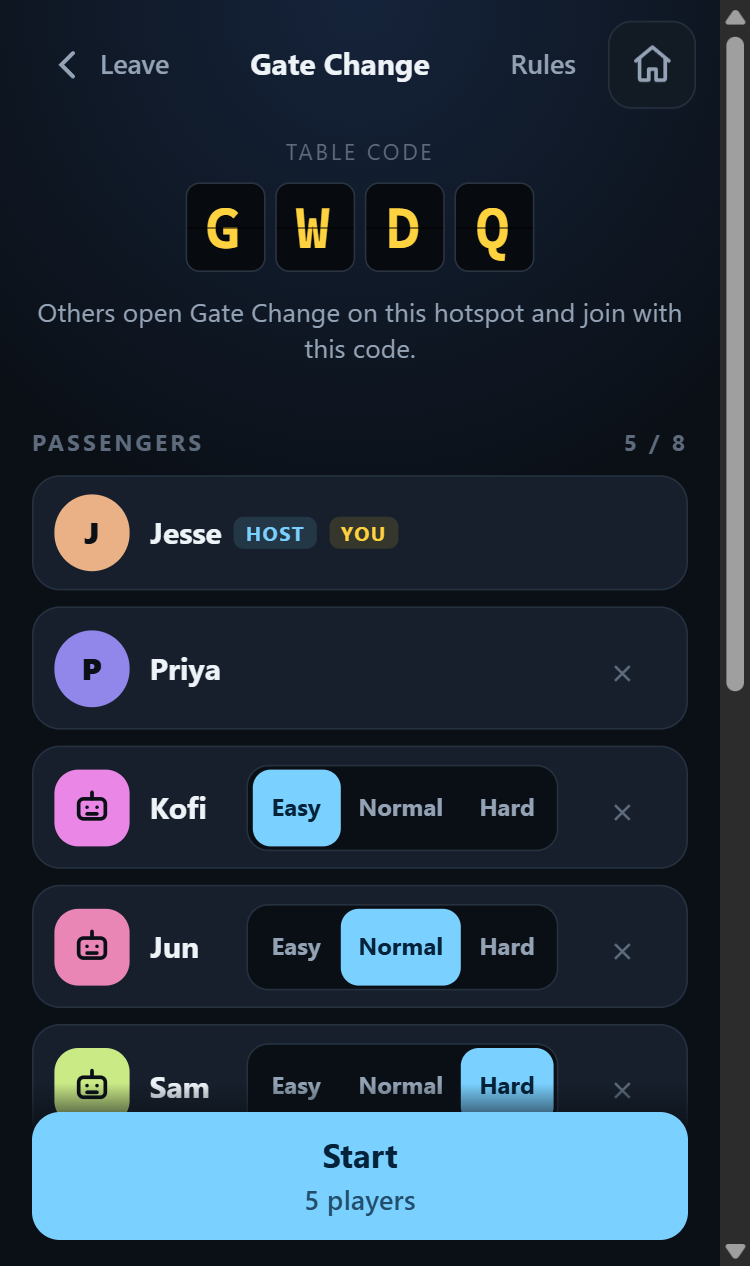
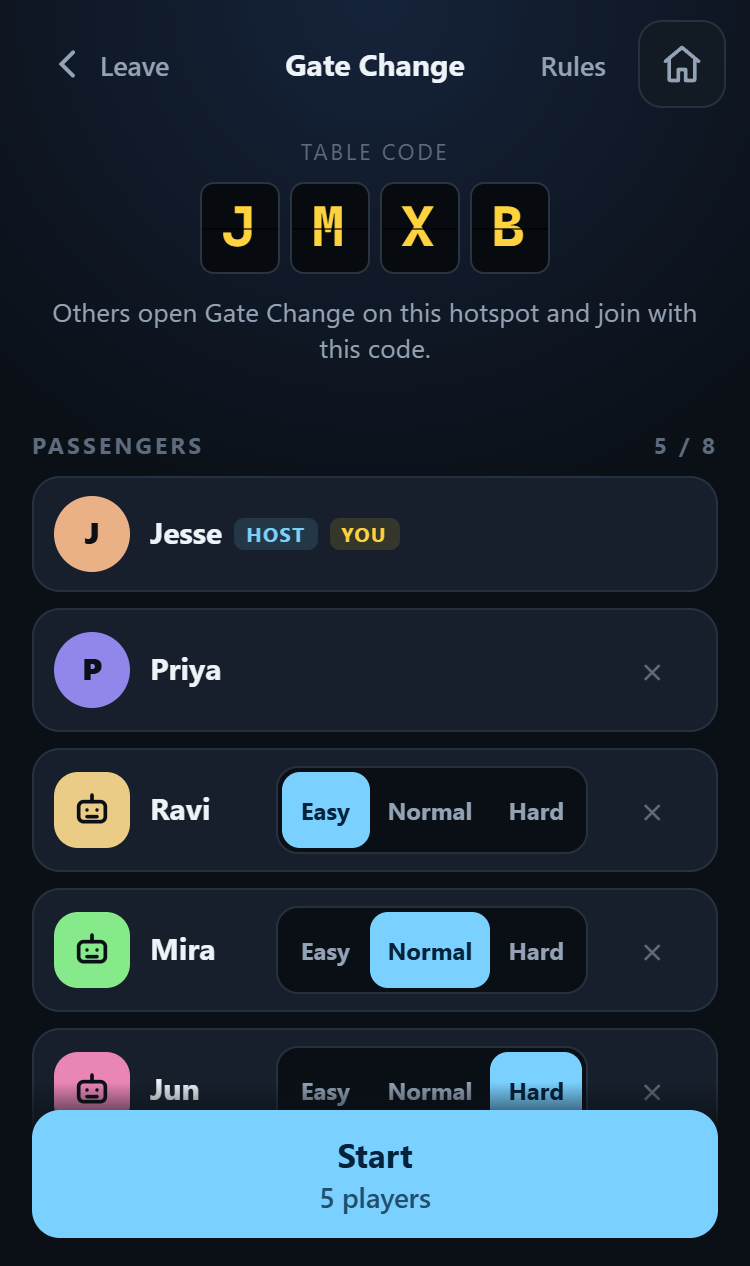
Centre the title in the lobby and table bars
Both bars are now a grid with equal side columns, each at least as wide as
its content, so the middle sits in the true centre; where equal halves don't
fit (the table bar below about 360 px) the middle moves over a little instead
of overflowing. Retook docs/screenshots/lobby.png and table.png.

diff --git a/static/index.html b/static/index.html
@@ -34,6 +34,14 @@
   /* ---------- shared bits ---------- */
   .bar { display: flex; align-items: center; justify-content: space-between; gap: 8px; padding: max(10px, env(safe-area-inset-top)) max(12px, env(safe-area-inset-right)) 6px max(12px, env(safe-area-inset-left)); }
   .bar .end { display: flex; align-items: center; gap: 4px; flex: none; }
+/* lobby and table: equal side columns put the middle in the true centre whatever sits on each
+   side. Each side is at least as wide as its content, so on a narrow phone where equal halves
+   don't fit (the table bar at 360 px) the wider side keeps its room and the middle moves over
+   a little instead of overflowing. */
+.bar.centred { display: grid; grid-template-columns: minmax(max-content, 1fr) auto minmax(max-content, 1fr); }
+.bar.centred > :first-child { justify-self: start; }
+.bar.centred > :nth-child(2) { white-space: nowrap; text-align: center; }
+.bar.centred > .end { justify-self: end; }
   /* AirplaneMode home (app contract item 10): right end of each bar, fixed on the home screen.
      z-index lifts it above the sheets (30/31) and the result overlay (25), so it stays reachable. */
   .am-home { position: relative; z-index: 35; flex: none; width: 44px; height: 44px; display: inline-grid; place-items: center; border-radius: 12px; color: var(--dim); background: var(--bg2); border: 1px solid var(--line); text-decoration: none; transition: color .15s, background .15s; }
@@ -354,7 +362,7 @@
 
 <!-- ============ lobby ============ -->
 <section id="lobby" class="screen" hidden>
-  <div class="bar">
+  <div class="bar centred">
     <button class="iconbtn" id="lobbyLeave"><svg viewBox="0 0 24 24" fill="none" stroke="currentColor" stroke-width="2.4" stroke-linecap="round"><path d="M15 5l-7 7 7 7"/></svg>Leave</button>
     <b>Gate Change</b>
     <div class="end">
@@ -388,7 +396,7 @@
 
 <!-- ============ table ============ -->
 <section id="table" class="screen" hidden>
-  <div class="bar">
+  <div class="bar centred">
     <button class="iconbtn" id="menuBtn" aria-label="Menu"><svg viewBox="0 0 24 24" fill="none" stroke="currentColor" stroke-width="2.4" stroke-linecap="round"><path d="M4 7h16M4 12h16M4 17h16"/></svg></button>
     <div class="mid"><span class="flap sm" id="tCode"></span><span id="roundInfo"></span></div>
     <div class="end">
